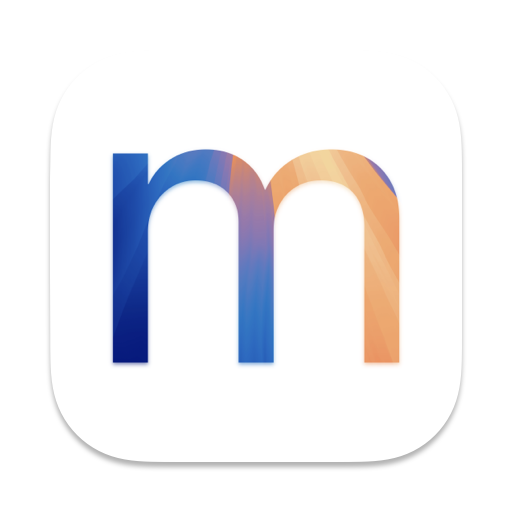
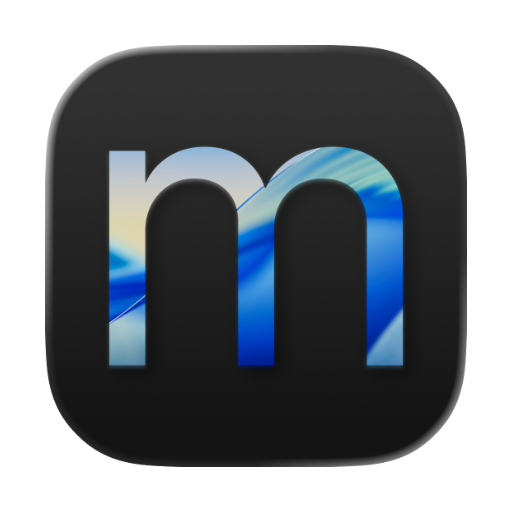
Bump version (#196)

diff --git a/CHANGELOG.md b/CHANGELOG.md
@@ -1,5 +1,13 @@
 # Changelog
 
+## [0.30](https://github.com/ninxsoft/Mist/releases/tag/v0.30) - 2025-09-23
+
+- Added support for **macOS Tahoe 26** :tada:
+- Fixed a bug that prevented macOS Installers from being created on devices running **macOS Sonoma 15** or later - thanks [gregneagle](https://github.com/gregneagle)!
+- Updated app icon to support new appearances on macOS Tahoe
+- Bumped [Sparkle](https://github.com/sparkle-project/Sparkle) version to **2.8.0**
+- Bumped [Yams](https://github.com/jpsim/Yams) version to **6.1.0**
+
 ## [0.20.1](https://github.com/ninxsoft/Mist/releases/tag/v0.20.1) - 2024-10-05
 
 - Fixed a bug that resulted in macOS installers being created that were only **~500MB** in size
